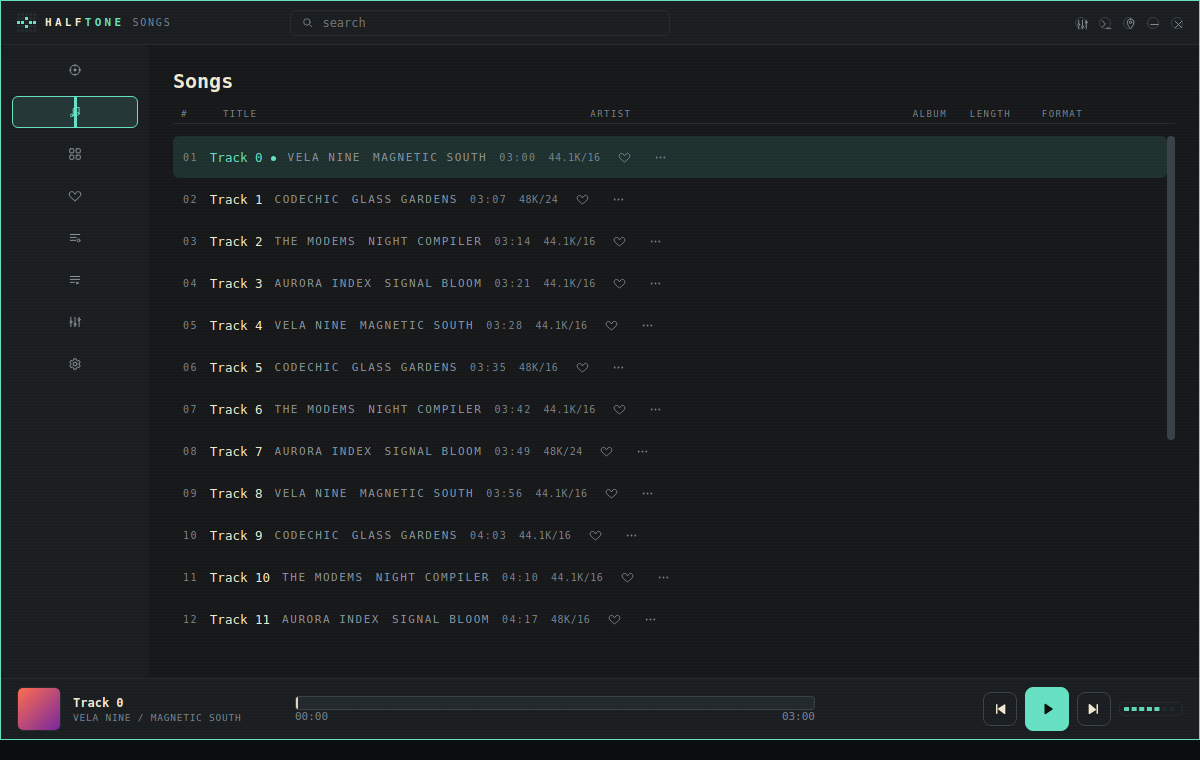
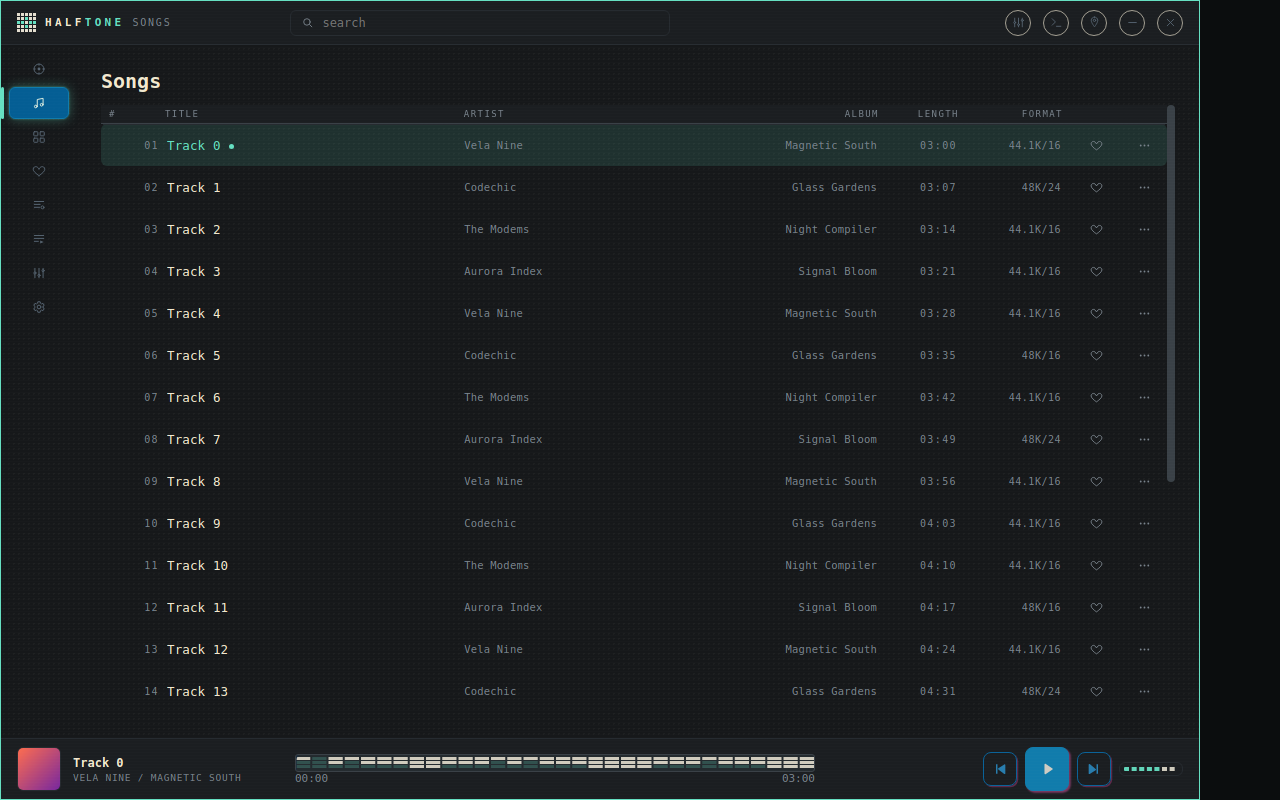
README: v0.2.1 — new shots, risograph/liquid-glass gallery, nav + seekbar docs

diff --git a/README.md b/README.md
@@ -37,18 +37,22 @@ Windows is the primary platform; Linux builds are experimental.
 The **Analogue** theme is built around **halftones and dither patterns**: album covers become
 Bayer dither grids in a color extracted from the artwork itself, the seek bar is a 48-segment
 LED spectrum meter, volume is a row of LEDs, and a music-reactive dither field breathes behind
-the now-playing view. The **Digital** theme trades dither for **Frutiger Aero × liquid glass** —
-translucent panels, blur and gloss — with the same layout and feature set underneath.
+the now-playing view (dark); light mode is a fresh **risograph** style — warm paper grain with
+riso blue and fluoro-pink spot inks. The **Digital** theme trades dither for **Frutiger Aero ×
+liquid glass** — translucent panels, blur and gloss (dark mode is full liquid glass with
+art-accent ambient blobs) — with the same layout and feature set underneath.
 
 ## Screenshots
 
 | | |
 |---|---|
 | **Analogue (dark)** — the library: dither art, LED seek, mono/print chrome | ![analogue dark](docs/screen_analogue_dark.png) |
+| **Analogue (light)** — new risograph style: warm paper, riso blue + fluoro pink inks | ![analogue light](docs/screen_analogue_light.png) |
+| **Digital (dark)** — liquid glass: art-accent ambient blobs, glass panels, glow | ![digital dark](docs/screen_digital_dark.png) |
 | **Digital (light)** — Frutiger Aero × liquid glass, same layout underneath | ![digital light](docs/screen_digital_light.png) |
-| **The widget** — always-on-top, card/strip/square/lyrics presets | ![widget](docs/screen_widget.png) |
+| **The widget** — always-on-top, card/strip/square/lyrics presets, synced live | ![widget](docs/screen_widget.png) |
 | **Now playing** — 28px synced lyrics with auto-follow, ambient dither field | ![now playing](docs/screen_nowplaying.png) |
-| **Change cover art** — right-click any track, tile, or art | ![cover menu](docs/screen_cover_menu.png) |
+| **Seekbar spectrum** — micro bars inside the gel tube, animated while playing | ![seek spectrum](docs/screen_seek_spectrum.png) |
 | **Searchable settings** — generated, filtered, applied live | ![settings](docs/screen_settings.png) |
 
 ## Features
@@ -60,7 +64,9 @@ translucent panels, blur and gloss — with the same layout and feature set unde
   [audio pipeline contract](docs/audio-pipeline.md)); every track shows a `LOSSLESS`/`LOSSY` badge
 - Full transport: play/pause, previous (restart-if->3s), next, shuffle, repeat off/all/one
 - **Play queue** — play next / add to queue from any row's menu
-- Seek bar with hover-expand, drag-sweep physics, and scroll-wheel ±5s scrub
+- Seek bar with hover-expand, drag-sweep physics, and scroll-wheel ±5s scrub —
+  with a **spectrum visualiser inside it**: micro bars in the gel tube (Digital) /
+  LED columns (Analogue) dancing while a track plays, in the app, mini-bar and widget
 - LED volume — click, arrow keys, or **scroll wheel anywhere** in either window
 - Library: tracks / albums / liked / playlists, debounced search, virtualized list rendering
   (handles tens of thousands of tracks)
@@ -82,17 +88,23 @@ translucent panels, blur and gloss — with the same layout and feature set unde
 
 ### Theming
 - **Two themes**: **Analogue** (dither/LED) and **Digital** (Frutiger Aero × liquid glass),
-  each with **light + dark** mode — follow the system or lock one
+  each with **light + dark** mode — follow the system or lock one. Analogue dark is
+  dither/LED; **Analogue light is a risograph style** (warm paper, riso ink). Digital dark
+  is **liquid glass** (ambient art blobs, blur, specular sheen); Digital light is Frutiger Aero
 - Animated theme/mode switching: a **circular reveal** expands from your pointer
   (View Transitions; graceful crossfade fallback), both windows switch together
+- **Slight glow** on the active chrome and **animated transitions between states** —
+  buttons, LEDs and panels respond live; motion can be reduced or turned off
 - Accent color **extracted from the album art**, contrast-clamped to ≥3:1, or locked:
   mint / sky / violet / rose / amber / red
 - Dither art repaints *during* accent tweens — colors never lag
 
 ### Layout & settings
 - **Highly configurable**: nav as left/right rail, top tabs, **bottom dock**, or hidden;
-  queue panel left/right/off; now-playing layouts (split / stacked / hero); mini-bar on/off;
-  density, corner radius, UI font scale, motion (full / reduced / off) — all applied live
+  **nav rail expand / collapse (icons-only) / fully hidden, persisted, toggled with
+  Ctrl+B**; queue panel left/right/off; now-playing layouts (split / stacked / hero);
+  mini-bar on/off; density, corner radius, UI font scale, motion (full / reduced / off) —
+  all applied live
 - A generated, searchable settings page in the main window and a settings sheet in the widget
 - **Widget presets** — card / compact strip / square art / lyrics-focus — with
   fit-to-window or fixed-% scaling that never letterboxes or blurs

diff --git a/CONTRIBUTING.md b/CONTRIBUTING.md
@@ -13,7 +13,7 @@ Thanks for helping! A few ground rules to keep the codebase sane:
    `halftone:cmd` messages and renders broadcasts. Never construct audio objects there.
 3. **Network surfaces are the ones documented in the README** (LRCLIB lyrics, cover-art
    lookups, OTA checks) — each user-disableable. New UI must not add another.
-4. **Phosphor design system** (`ui/style.css`): segmented/quantized visual units, border-tier
+4. **Phosphor design system** (`ui/themes/`): segmented/quantized visual units, border-tier
    depth (no soft drop shadows), the existing type scale. New UI must use the same vocabulary
    (LED segments, dot caps, dither textures) — not a new one.
 
@@ -35,6 +35,14 @@ cargo run --release            # or launch the exe directly with CDP env (see to
 - Comments explain *why*, not what
 - Keep the crate dependency-free where practical (metadata walking, base64, etc. are
   hand-rolled on purpose)
+
+## Version notes
+
+- **v0.2.1** — visual overhaul: Analogue light is a new risograph style, Digital dark is
+  liquid glass, the nav rail collapses/hides (Ctrl+B), and the seek bar gains a spectrum
+  visualiser; startup-freeze fix and hardened installers included.
+- **v0.2.0** — multi-format original-bytes playback, two-theme engine with light/dark,
+  one-line installers, network-surface disclosure.
 
 ## Reporting issues
 
